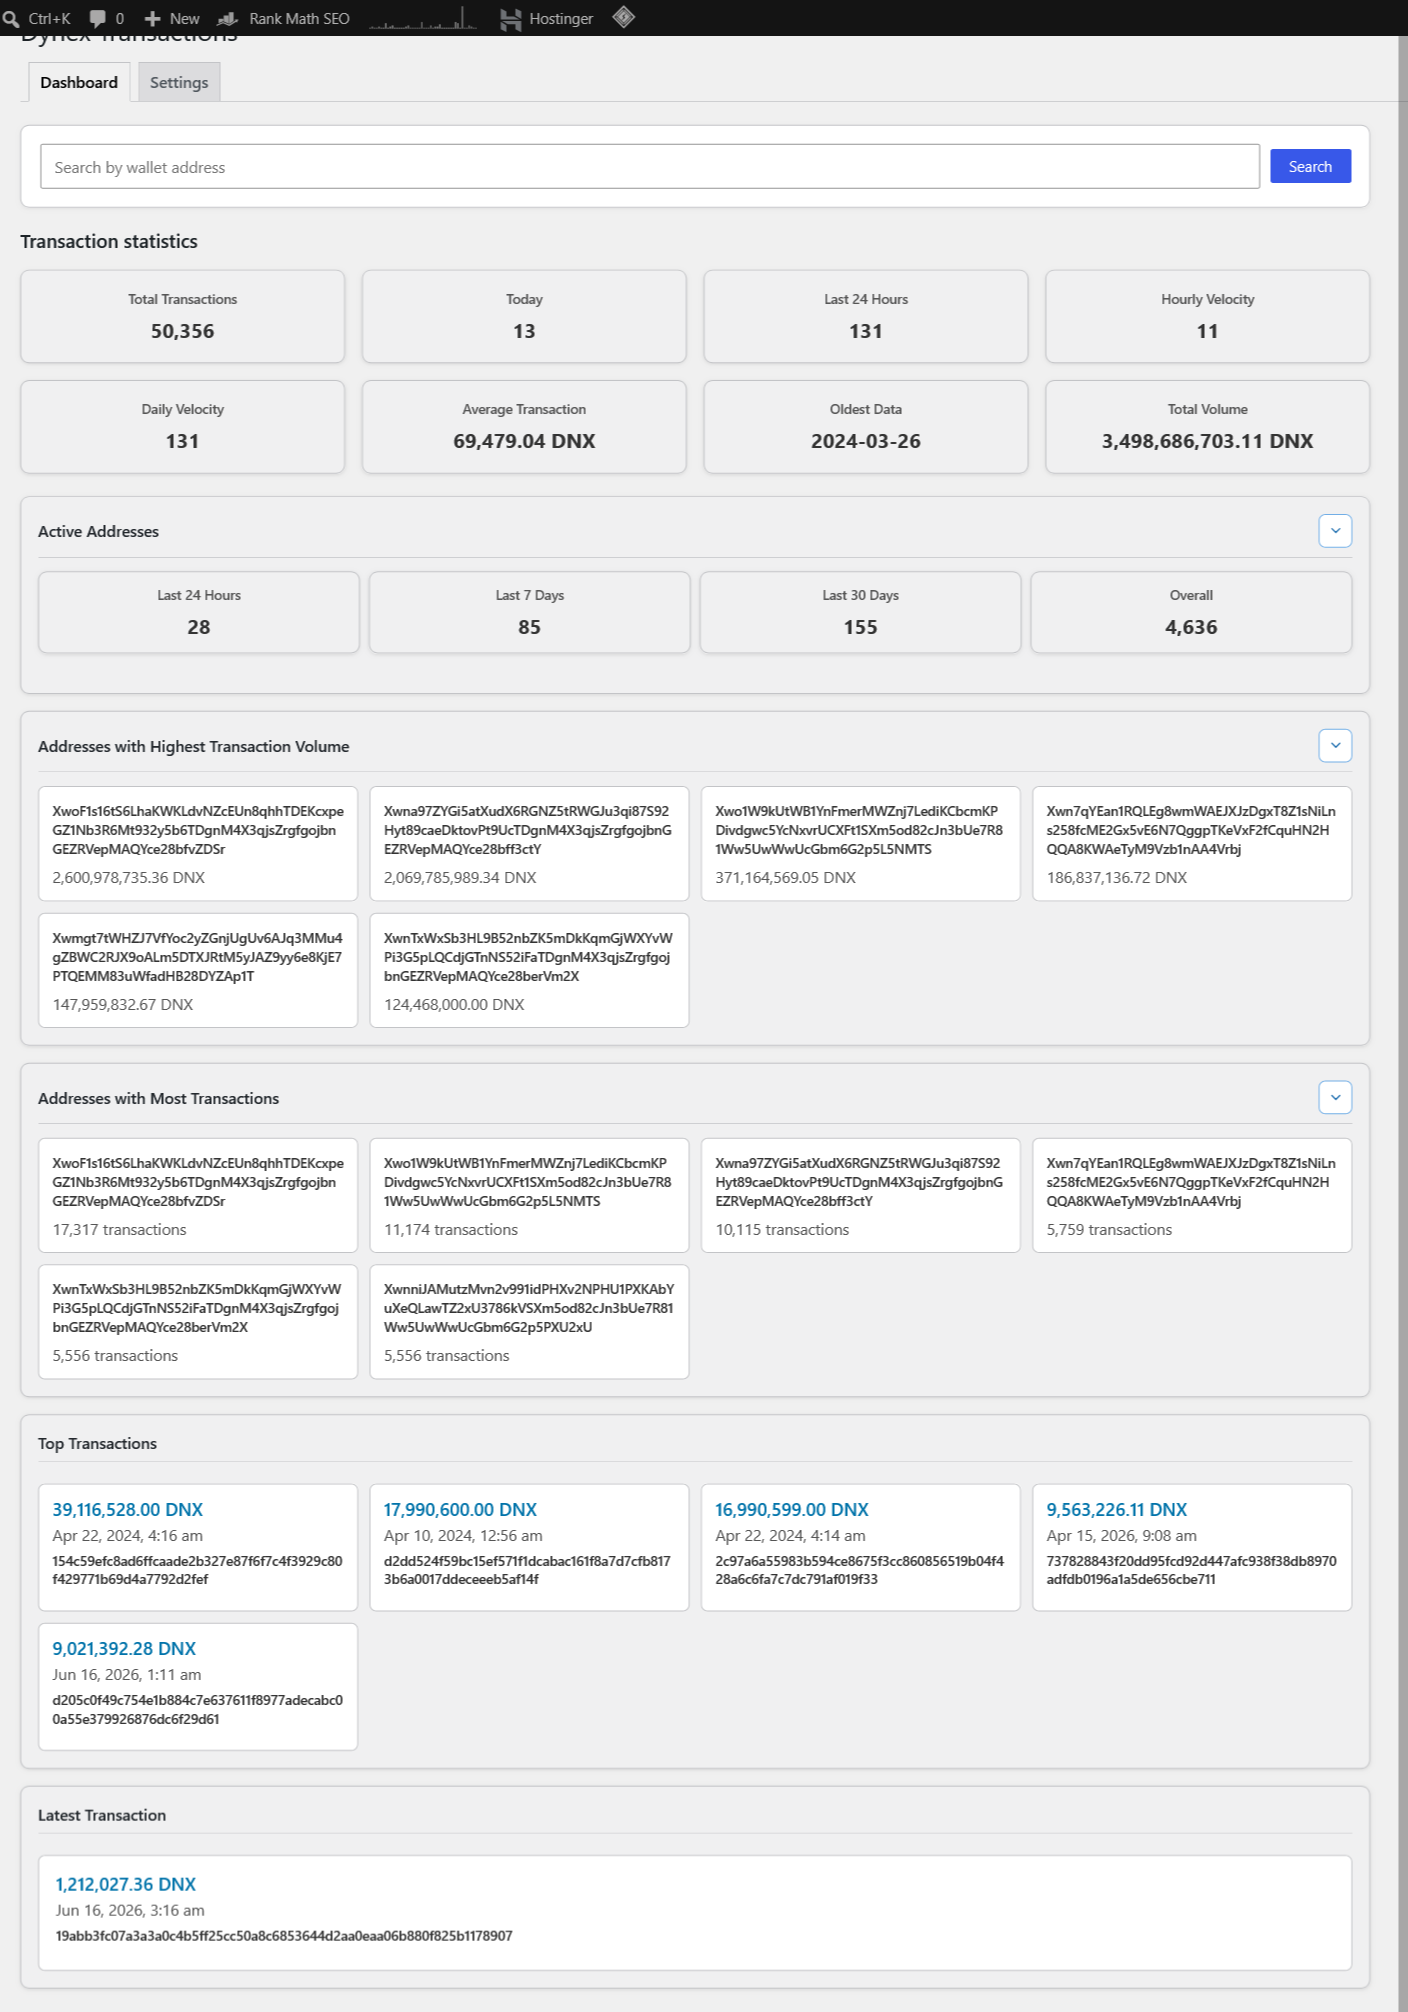
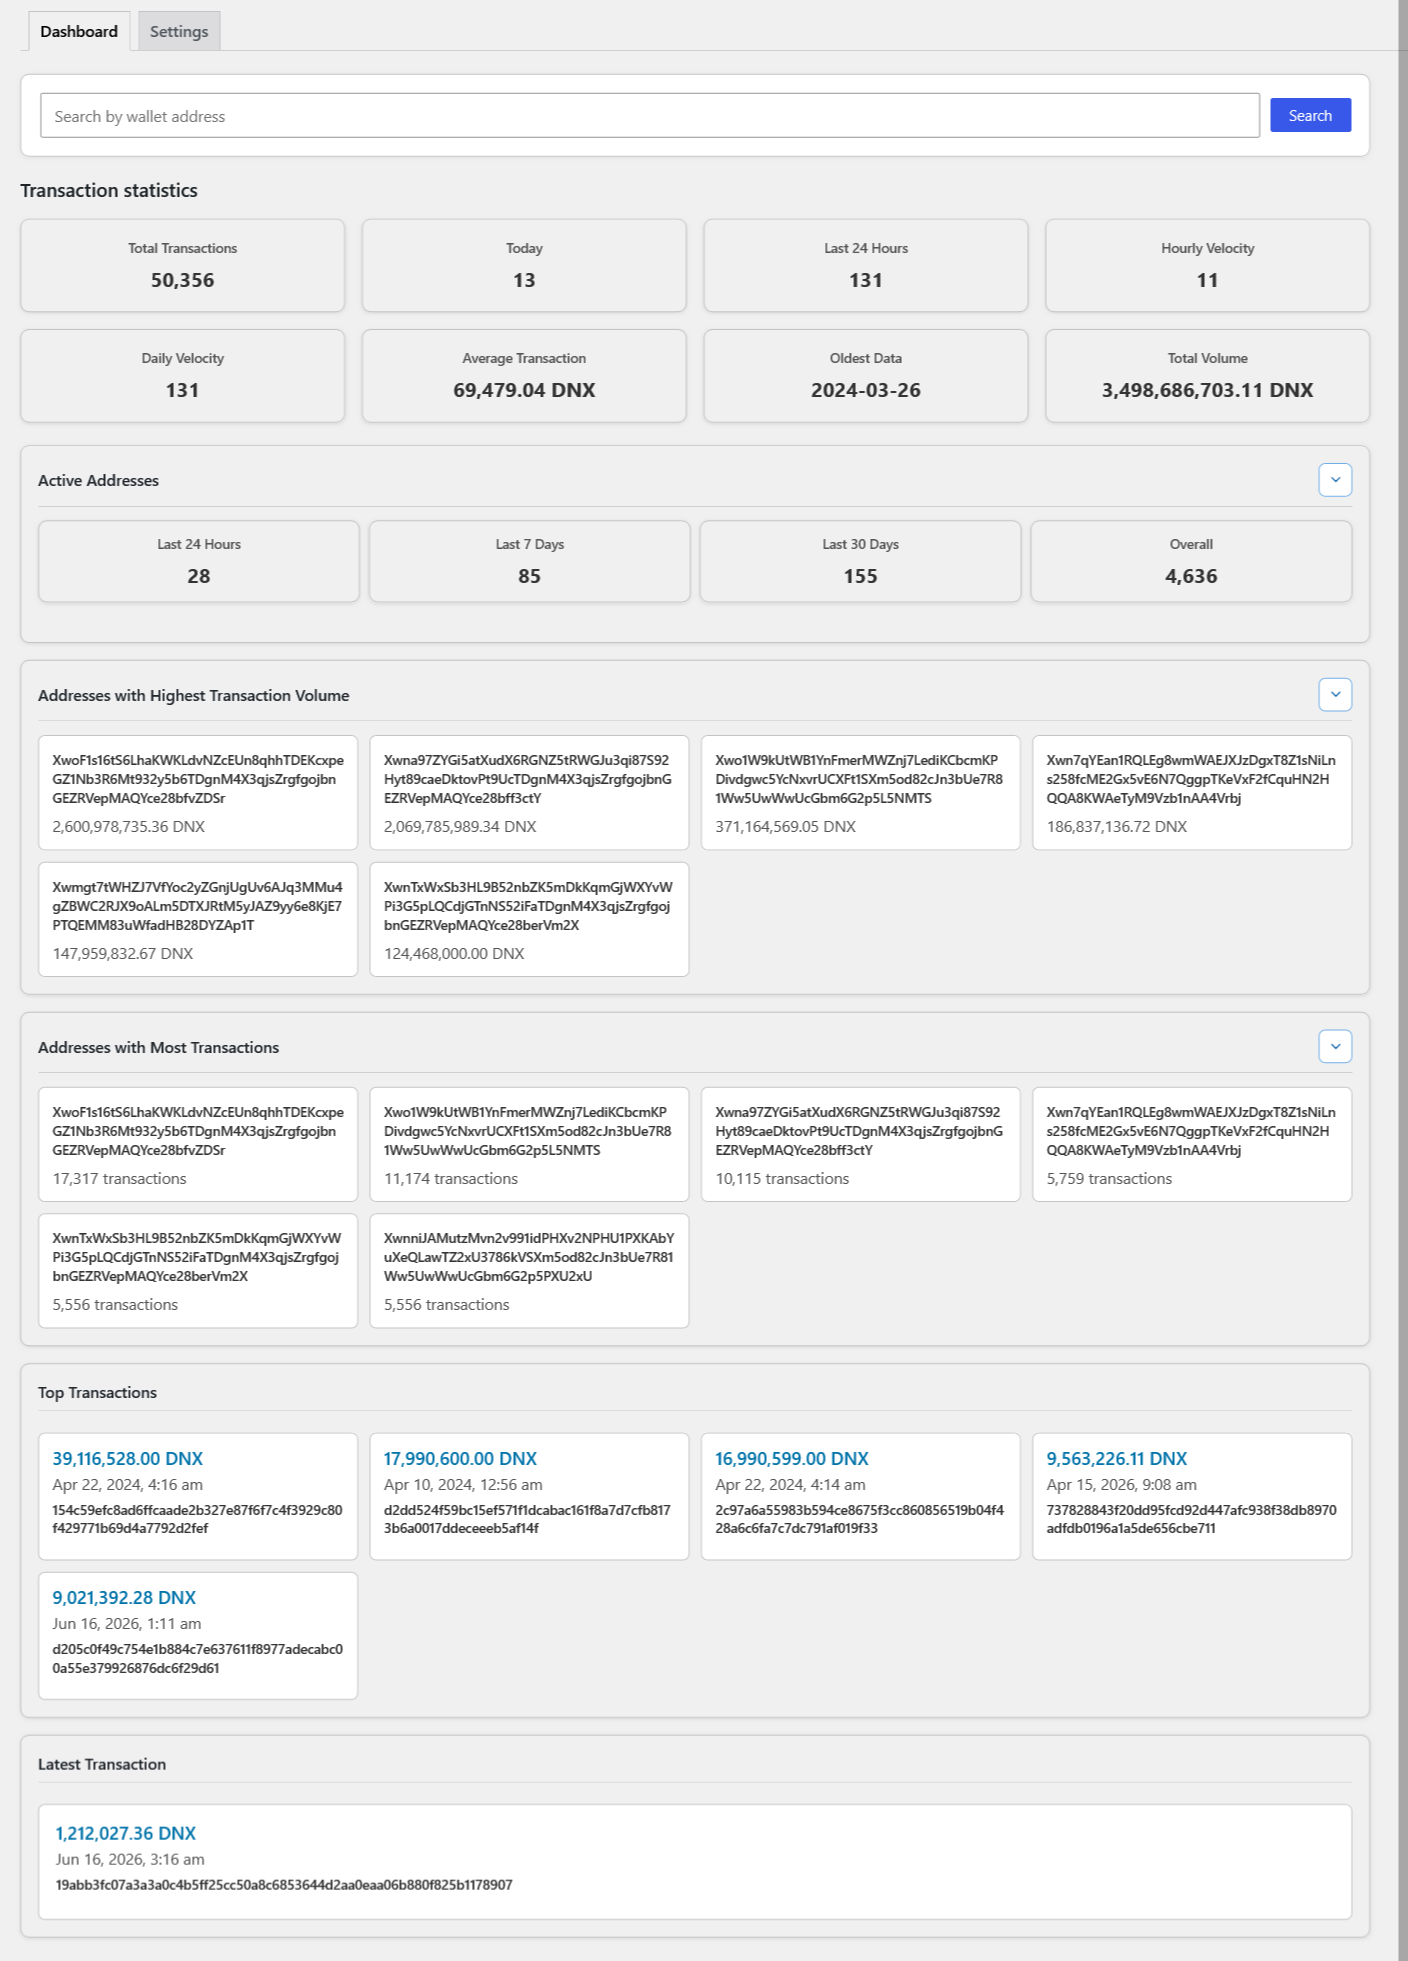
docs: refresh screenshots — expanded hero, operator crops, wp-admin
Featured image is full expanded live page; replace statistics crop with
operator hard crop; update both wp-admin shots; keep address-search asset.

diff --git a/README.md b/README.md
@@ -1,6 +1,6 @@
 # Dynex Large Transactions — WordPress plugin
 
-![Large Dynex transactions — live monitor](assets/live-transactions-collapsed.png)
+![Large Dynex transactions — live monitor (expanded)](assets/live-transactions-expanded.png)
 
 **Large on-chain DNX transfers** in one place — ranked cards, aggregate network stats, and wallet-level search without running a Dynex node or parsing block explorer pages by hand. Traders, researchers, and community members use [logicencoder.com/dynex-large-transactions-monitor/](https://logicencoder.com/dynex-large-transactions-monitor/) to watch whale-sized moves and drill into any wallet’s send/receive history.
 
